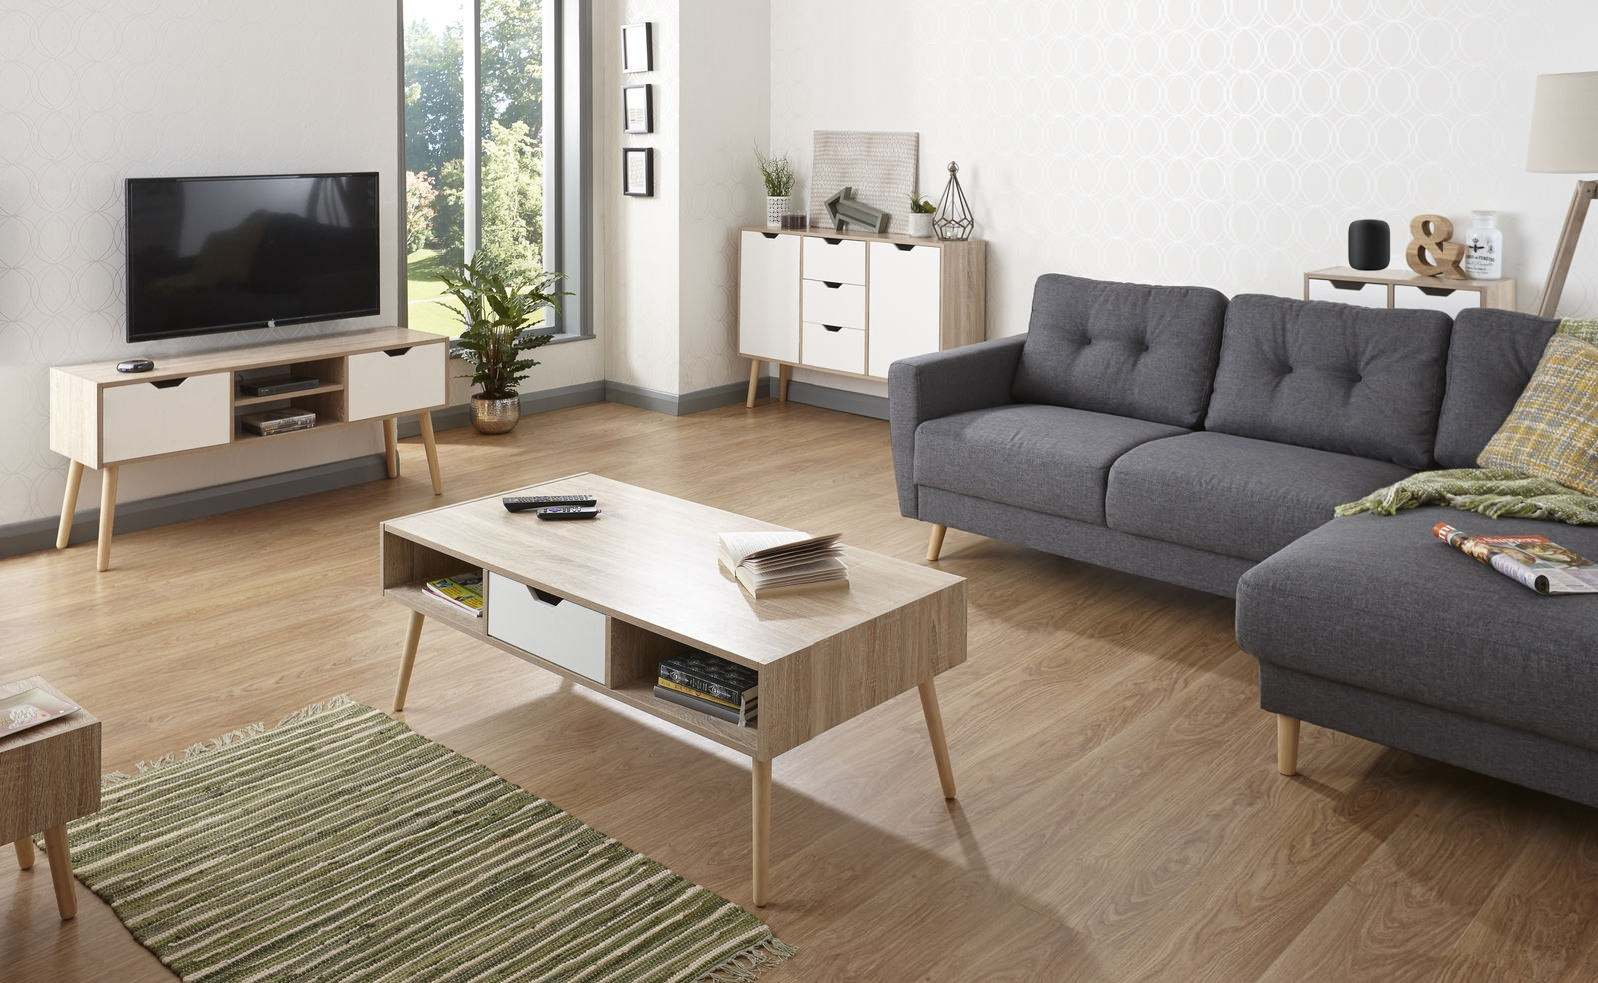
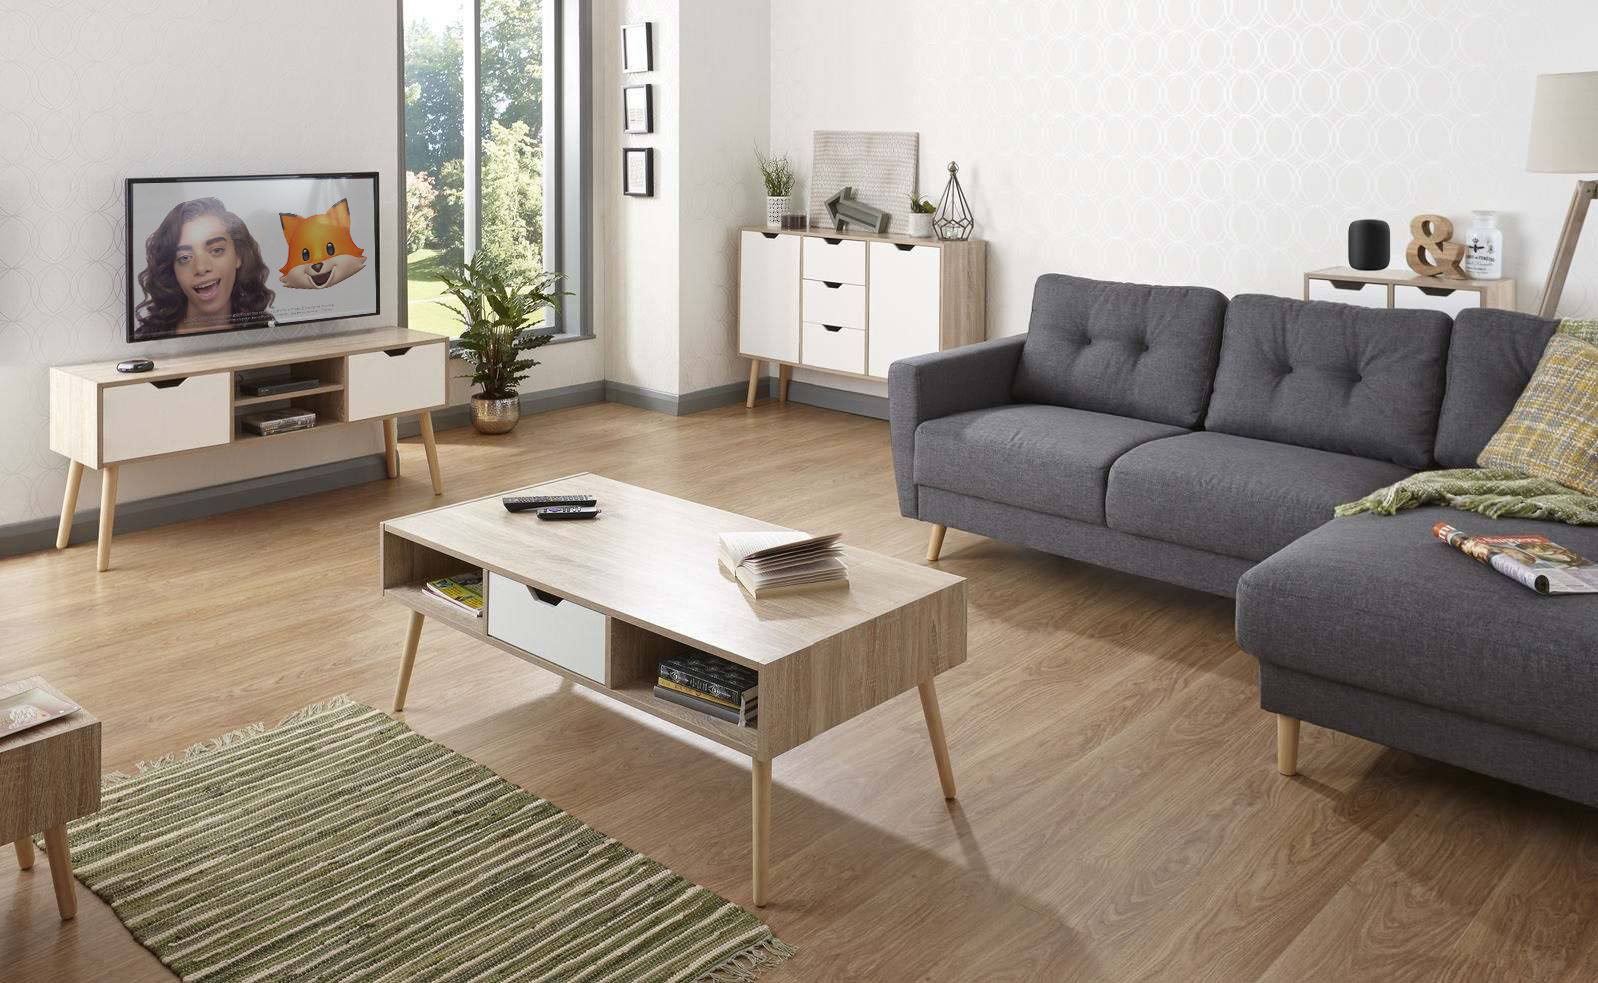
modifications boutons homeKit et intégration du footer

Changed region(s): [[0.0613, 0.1831, 0.2453, 0.3357]]

diff --git a/homekit.html b/homekit.html
@@ -21,19 +21,21 @@
       <div class="homeExperience__animation__container">
       <span class="homeExperience__animation__title">Home Experience</span>
       </div>
-      <div class="black"></div>
-        <img src="images/salon_homePod.jpg" alt="salon" class="home">
-      <div class="buttons">
-        <div class="buttonLight">
-        </div>
-        <h3>Lumière</h3>
-        <div class="buttonTV">
-        </div>
-        <h3>Télévision</h3>
-        <div class="buttonWindow">
-        </div>
-        <h3>Volet</h3>
-      </div>
+      <div class="black"></div> <!-- div qui permet d'assombrir l'image-->
+        <img src="images/salon_homePod.jpg" alt="salon" class="home"> <!--image originale du salon-->
+        <div class="buttons"> <!--div pour tous les boutons de l'image salon-->
+            <div class="buttonLight">
+            </div>
+            <h3>Lumière</h3>
+            <div class="buttonTV">
+            </div>
+            <h3>Télévision</h3>
+            <div class="buttonWindow">
+            </div>
+            <h3>Volet</h3>
+          </div>
+        <img src="images/salon_homePod_tele.jpg" alt="salon" class="television"> <!--div pour allumer la télé-->
+        <img src="images/salon_homePod_volet.jpg" alt="salon" class="volet"> <!--div pour fermer les volets-->
       <section id="slider">
         <input type="radio" name="slider" id="s1">
         <input type="radio" name="slider" id="s2">
@@ -47,6 +49,43 @@
         <label for="s5" id="slide5"></label>
       </section>
     </main>
+    <footer>
+        <div class="barreHorizontale">
+         </div>
+        <div class="footer">
+            <ul class="footerList1">
+                <li><a href="features.html" title="caracteristiques">Caractéristiques</a></li>
+                <li><a href="homekit.html" title="home kit">Home Kit</a></li>
+                <li><a href="buy.html" title="acheter">Acheter</a></li>
+              </ul>
+              <ul class="footerList2">
+                <li><a href="https://apple.com" title="caracteristiques">Apple</a></li>
+                <li><a href="https://secure1.store.apple.com/fr/shop/account/home" title="compte apple store">Compte Apple Store</a></li>
+                <li><a href="https://www.apple.com/fr/contact/" title="contact">Contact</a></li>
+              </ul>
+              <ul class="footerList2">
+                <li><a href="https://www.apple.com/fr/retail/" title="apple store">Apple Store</a></li>
+                <li><a href="https://www.apple.com/fr/accessibility/" title="accessibilité">Accessibilité</a></li>
+                <li><a href="https://www.apple.com/fr/privacy/" title="confidentialite">Confidentialité</a></li>
+              </ul>
+              <ul class="footerList2">
+                <li><a href="https://www.apple.com/legal/warranty/statutoryrights.html" title="garantie">Garantie</a></li>
+                <li><a href="https://www.apple.com/fr/apple-events/" title="Evenements">Evénements</a></li>
+                <li><a href="https://investor.apple.com/investor-relations/default.aspx" title="investisseurs">Investisseurs</a></li>
+              </ul>
+        </div>
+        <div class="barreHorizontale2">
+        </div>
+        </div>
+        <div class="footer2">
+            <a href="#" title="copyright">Copyright © 2019 Apple Inc. All rights reserved.</a>
+            <a href="https://www.apple.com/legal/privacy/fr-ww/" title="confidentialité">Engagement de confidentialité</a>
+            <a href="https://www.apple.com/legal/privacy/fr-ww/cookies/" title="cookies">Utilisations des cookies</a>
+            <a href="https://www.apple.com/fr/legal/internet-services/terms/site.html" title="conditions utilisations">Conditions d'utilisations</a>
+            <a href="https://www.apple.com/fr/legal/" title="mentions legales">Mentions légales</a>
+            <a href="https://apple.com" title="apple"><img src="images/appleLogo.jpg" alt="logo Apple"></a>
+        </div>
+    </footer>
     <script src="scripts/homekit.js"></script>
   </body>
 </html>

diff --git a/styles/homekit.css b/styles/homekit.css
@@ -104,7 +104,7 @@ header .buttonBuy:hover{
     }
   }
 
-  /* PICTURE */
+  /* PICTURES */
 
   .home{
       padding: 15px 0px 50px 0px;
@@ -112,15 +112,23 @@ header .buttonBuy:hover{
       height: 650px;
   }
 
-  .black{
-      position: absolute;
+  .television{
+      padding: 15px 0px 50px 0px;
       width: 100%;
       height: 650px;
-      background-color: #000;
+      position: absolute;
       opacity: 0;
       transition: all 1.3s;
   }
 
+  .volet{
+    padding: 15px 0px 50px 0px;
+    width: 100%;
+    height: 650px;
+    position: absolute;
+    opacity: 0;
+    transition: all 1.3s;
+  }
 
   /* BUTTONS */
 
@@ -138,6 +146,25 @@ header .buttonBuy:hover{
       margin: 0px 0px 60px 0px;
       cursor: pointer;
   }
+
+  .black{
+    position: absolute;
+    width: 100%;
+    height: 650px;
+    background-color: #000;
+    opacity: 0;
+    transition: all 1.3s;
+    margin-top: 15px;
+}
+
+/* H3 FOR BUTTONS */
+
+.h3{
+    display:flex;
+    justify-content: space-around;
+    font-style: normal;
+    font-size: 12px;
+}
 
   /*SLIDER*/
   
@@ -202,3 +229,77 @@ header .buttonBuy:hover{
 #slide5 {
     background: #8c8c8c
 }
+
+/* FOOTER */
+
+.barreHorizontale{
+    border: 1px solid rgba(0, 0, 0, 0.6);
+    width : 900px;
+    margin-left: auto;
+    margin-right: auto;
+    margin-top : 100px;
+  }
+  
+  .footer{
+    width : 1260px;
+    height: 140px;
+    display: flex;
+    align-content:center;
+    margin-left: 250px;
+  }
+  
+  .footer ul{
+    list-style: none;
+  }
+  
+  .footer ul li{
+    margin : 20px 20px 40px 40px;
+  
+  }
+  
+  .footer ul li a{
+    color : black;
+    text-decoration: none;
+  }
+  
+  .footer ul li a:hover{
+    color : #c2c3c7;
+    transition : all 0.2s;
+  }
+  
+  /*2ème FOOTER */
+  
+  .footer2{
+    width: 1000px;
+    height: 100px;
+    margin-left: 300px;
+    margin-right: auto;
+    position : relative;
+  }
+  .footer2 a{
+    font-size: 12px;
+    text-decoration: none;
+    color : black;
+    margin-right: 7px;
+    padding-right: 10px;
+    margin-top: 30px;
+    border-right : 1px solid black;
+  }
+  
+  .footer2 a:last-child{
+    border-right : none;
+  }
+  
+  .footer2 img{
+    width : 50px;
+    height: 50px;
+    position : absolute;
+    bottom : 270px;
+    right : 550px;
+  }
+  
+  .barreHorizontale2{
+    border: 1px solid rgba(0, 0, 0, 0.6);
+    width : 900px;
+    margin : 60px auto 30px auto;
+  }

diff --git a/scripts/homekit.js b/scripts/homekit.js
@@ -17,6 +17,3 @@ light.addEventListener(
         }
     }
 )
-
-// deuxième div par dessus boutton en display none
-// EventListener black.opacity.0
